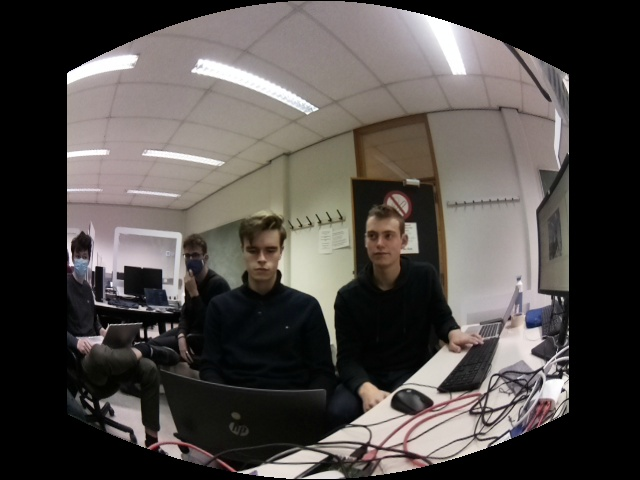
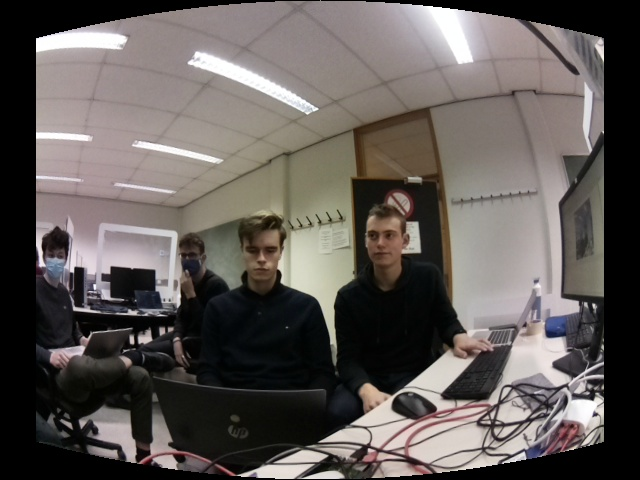
samenvoegding

diff --git a/programs/cylindrical_projection/cylindrical_wrapping.py b/programs/cylindrical_projection/cylindrical_wrapping.py
@@ -7,9 +7,9 @@ import numpy as np
 CAMERA_MATRIX = [[320.68838395,   0, 315.79552501],
  [0, 314.07165737, 251.72067641],
  [ 0, 0, 1]]
-#INPUT_IMAGE = "./camera_images/calibration_image_left.jpg"
+FOCAL_LENGTH = 500
+
 INPUT_IMAGE = "sterio_vision/images/right/right0.png"
-#OUTPUT_IMAGE = "./cylindrical_projection_images/left_cyl.jpg"
 OUTPUT_IMAGE = "./cylindrical_projection_images/right0_cyl.jpg"
 
 
@@ -40,7 +40,7 @@ def cylindricalWarp(img, K):
 if __name__ == '__main__':
     img = cv2.imread(INPUT_IMAGE)
     h, w = img.shape[:2]
-    K = np.array(CAMERA_MATRIX)  # mock intrinsics
+    K = np.array([[FOCAL_LENGTH, 0, w/2], [0, FOCAL_LENGTH, h/2], [0, 0, 1]])  # mock intrinsics
     # [fx s x0; 0 fy y0; 0 0 1]
     img_cyl = cylindricalWarp(img, K)
     cv2.imwrite(OUTPUT_IMAGE, img_cyl)

diff --git a/programs/stitch_images/stitching_auto_function.py b/programs/stitch_images/stitching_auto_function.py
@@ -31,8 +31,8 @@ cv.waitKey(0)
 
 
 stitcher = cv2.Stitcher.create()
-one = cv2.imread("../MAIN_code/non_multi_threaded/calibration_image_left.jpg")
-two = cv2.imread("../MAIN_code/non_multi_threaded/calibration_image_right.jpg")
+one = cv2.imread("../cylindrical_projection/left.jpg")
+two = cv2.imread("../cylindrical_projection/right.jpg")
 cv2.imshow("1", one)
 cv2.waitKey(0)
 cv2.imshow("2", two)

diff --git a/programs/cylindrical_projection/online_test_jasper_allezDanNogEens.py b/programs/cylindrical_projection/online_test_jasper_allezDanNogEens.py
@@ -23,7 +23,7 @@ def undistort(img_path, balance=1.0, dim2=None, dim3=None):
     hight, width = undistorted_img.shape[:2]
     print(hight, width)
     print(undistorted_img)
-    cv2.imwrite("left.jpg", undistorted_img[70:405, 20:640])
+    cv2.imwrite("left.jpg", undistorted_img)
 
 
 if __name__ == '__main__':

diff --git a/programs/cylindrical_projection/manueel_samenvoegen_voor_sweatshop.py b/programs/cylindrical_projection/manueel_samenvoegen_voor_sweatshop.py
@@ -1,0 +1,7 @@
+import cv2
+import numpy as np
+img1 = cv2.imread("cylindrical_projection_images\left0_cyl.png")
+img2 = cv2.imread("cylindrical_projection_images/right0_cyl.png")
+
+vis = np.concatenate((img1[:, 0:437], img2[:, 70:]), axis=1)
+cv2.imwrite('out.png', vis)
